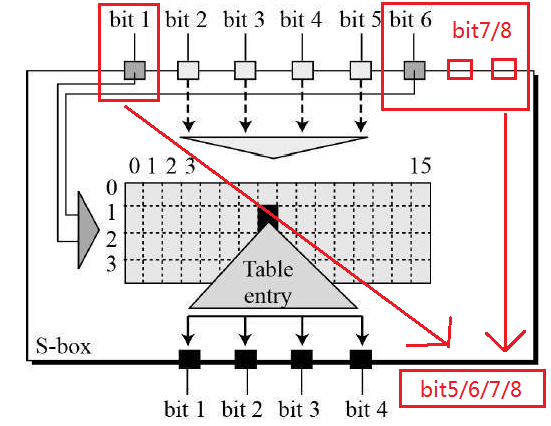
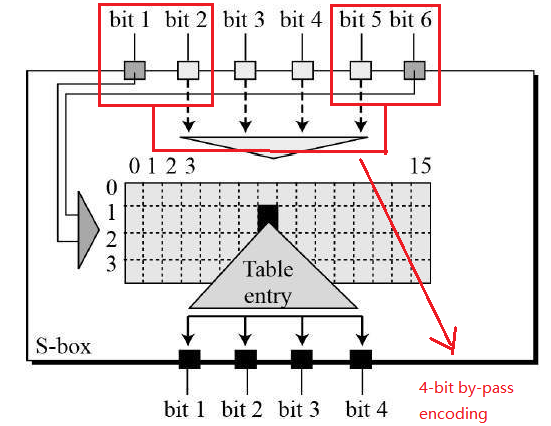
no message

diff --git a/Chapter3_Implementations/WBC_Tutorial_Implementations.tex b/Chapter3_Implementations/WBC_Tutorial_Implementations.tex
@@ -174,9 +174,9 @@ For a function $^{n}_{m}P$, we can put a \textit{by-pass encoding} $^{b}_{a}E$ s
 \frame
 {
 \frametitle{Split-path encoding}
-Form a function $^{n}_{m}P$, we may use an encoding that is really a concatenation of two separate encodings. That is, we define
+Form a function $^{n}_{m}P$, we may use an encoding that is \textcolor[rgb]{1.00,0.00,0.00}{really a concatenation of two separate encodings}. That is, we define
 \[^{n+k}_{m}Q(_{m}e)=P(_{m}e)||^{k}_{m}R(_{m}e)\]
-The effect is that if $P$ is lossy, $Q$ may lose less information (or no information). This method is used to achieve \textit{local security}.
+The effect is that if $P$ is lossy, $Q$ may lose less information (or no information). This method is used to achieve \textcolor[rgb]{1.00,0.00,0.00}{local security} on Chow \textit{et al.}'s white-box DES.
 }
 
 \frame
@@ -222,7 +222,7 @@ For an sbox $S$ with $n$-bit input and output (normally 4-bit or 8-bit), we can 
 {
 \frametitle{DES sbox and its local security}
 Let $6$-bit input $a=a_{0}a_{1}\cdots a_{5}$ and DES $6$-bit input and $4$-bit output sbox $^{6}_{4}S(.)$. To build a local secure look-up table $T$, we have
-\[^{8}_{8}T(a||^{2}b)=^{6}_{4}S(k\oplus a)||a_{0}||a_{5}||b.\]
+\[^{8}_{8}T(a||^{2}a)=^{6}_{4}S(k\oplus a)||a_{0}||a_{1}||a_{4}||a_{5}.\]
 
 \begin{figure}[h]
 \centering
